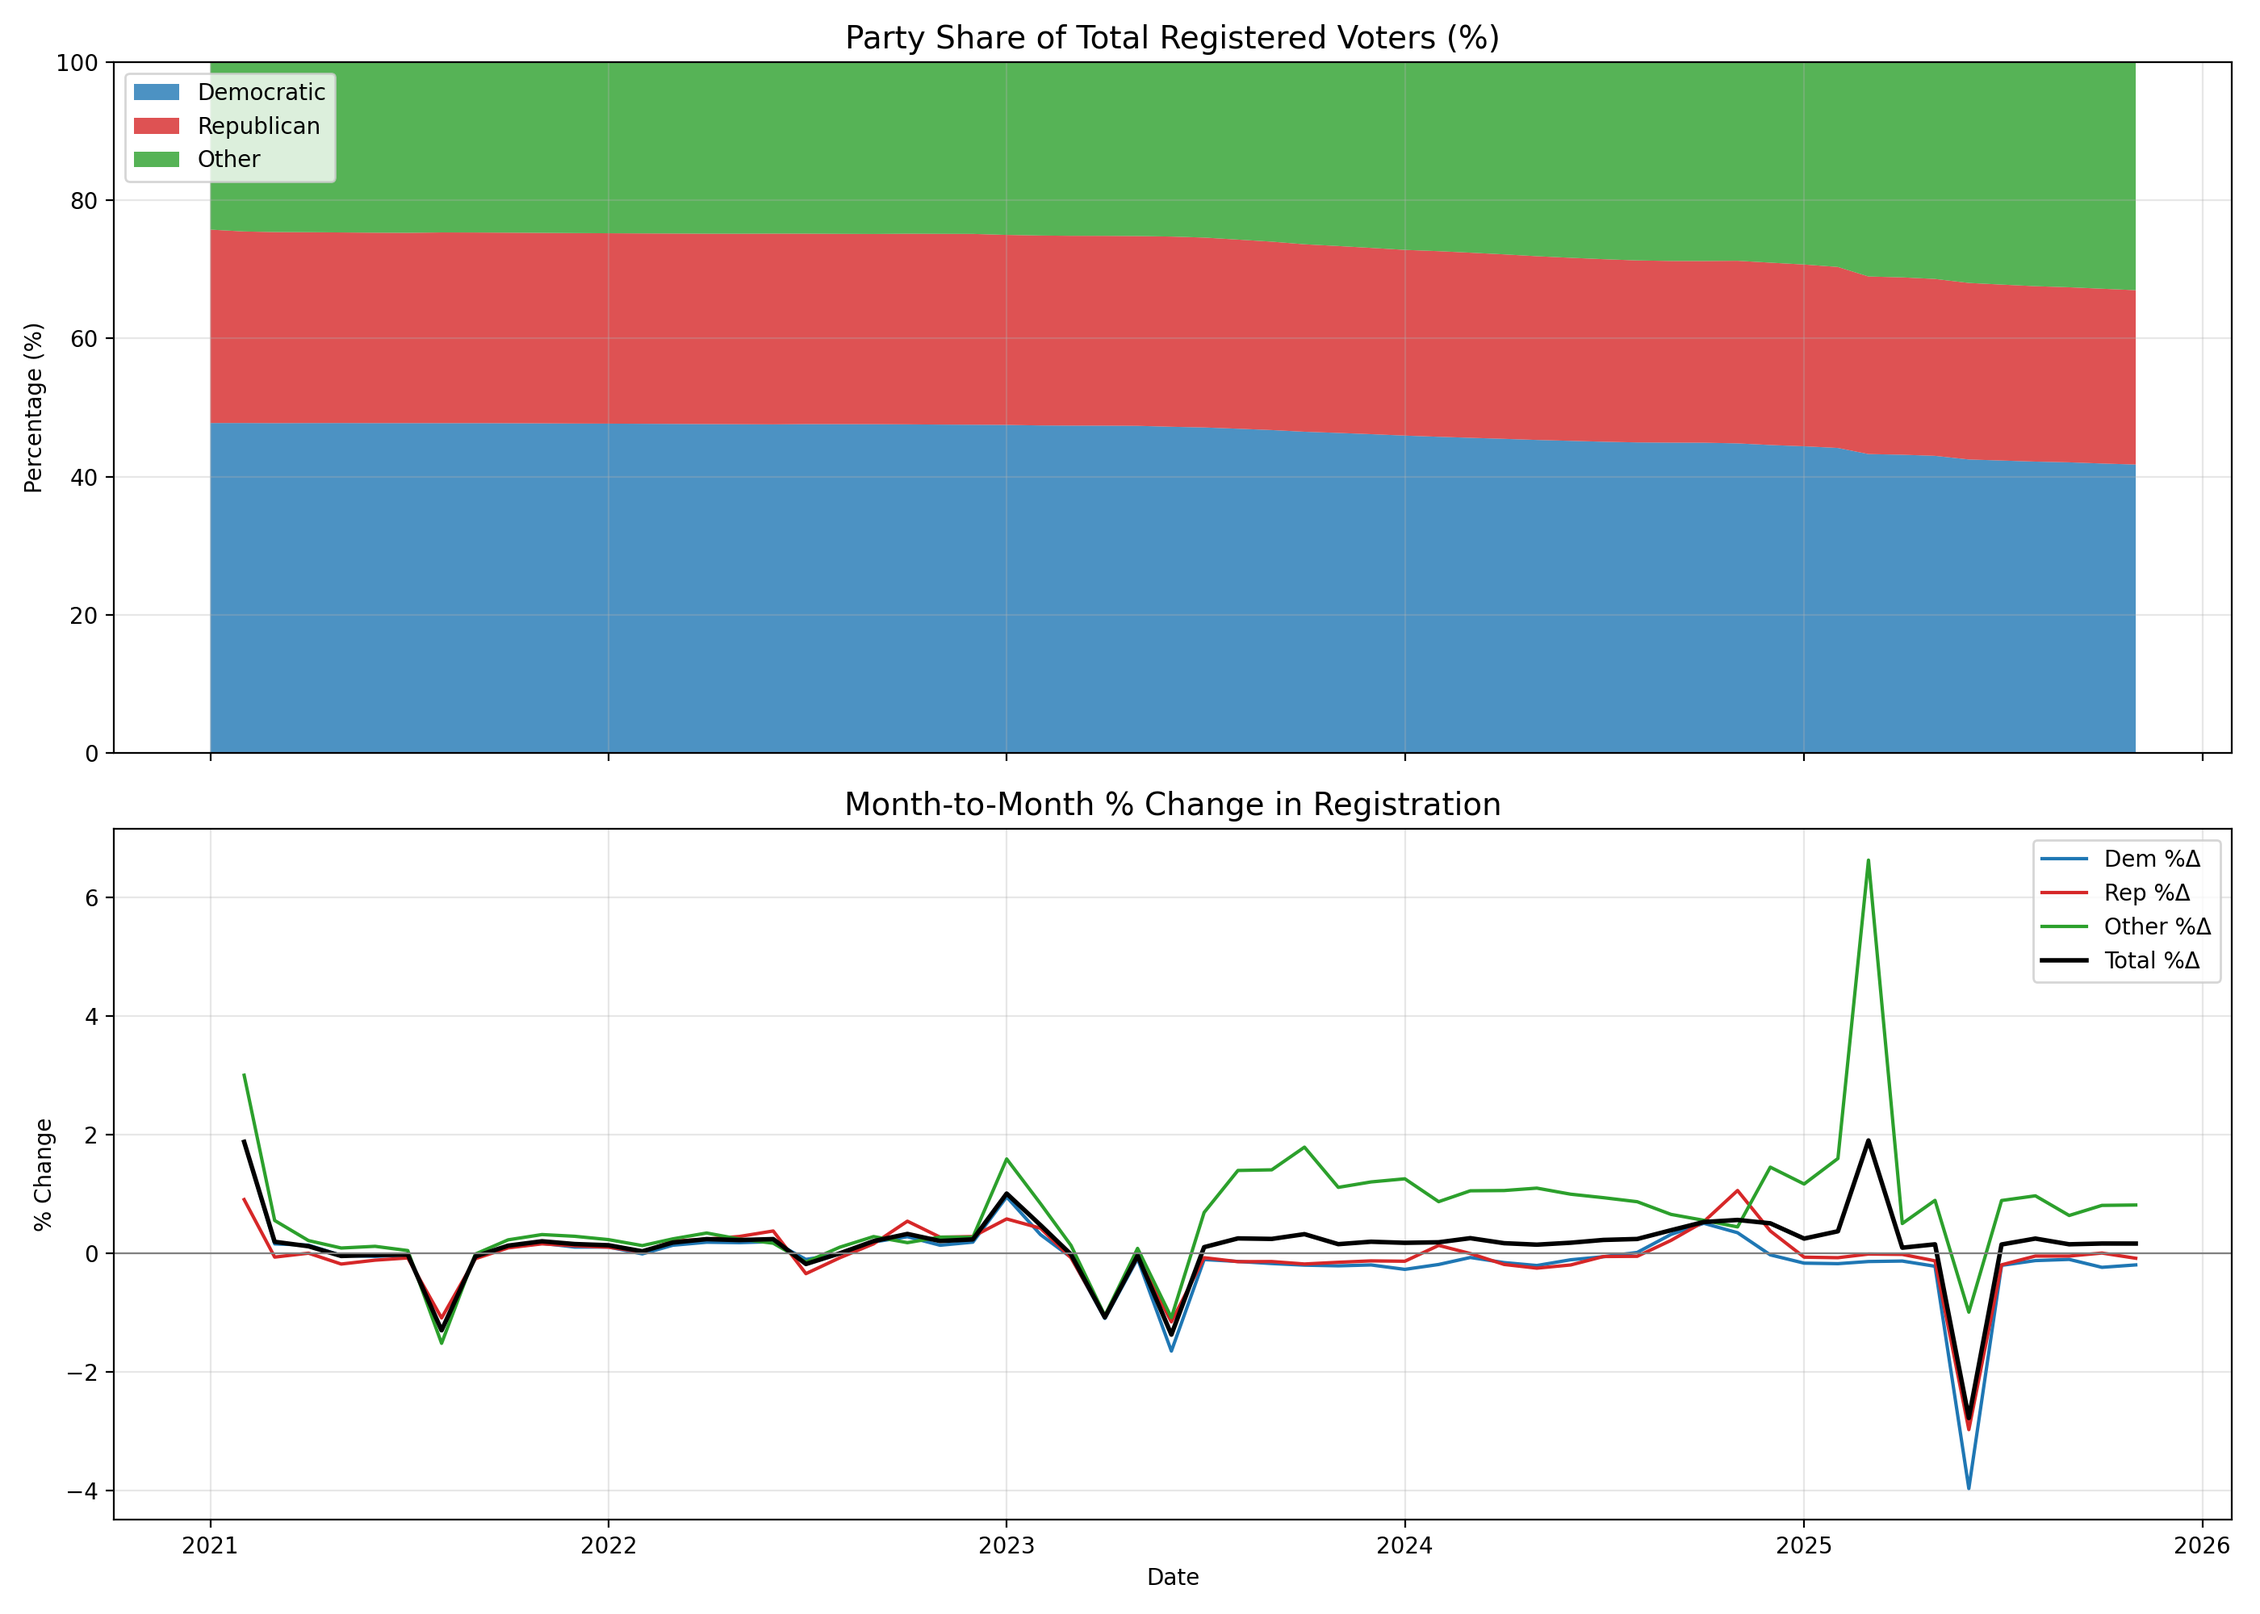
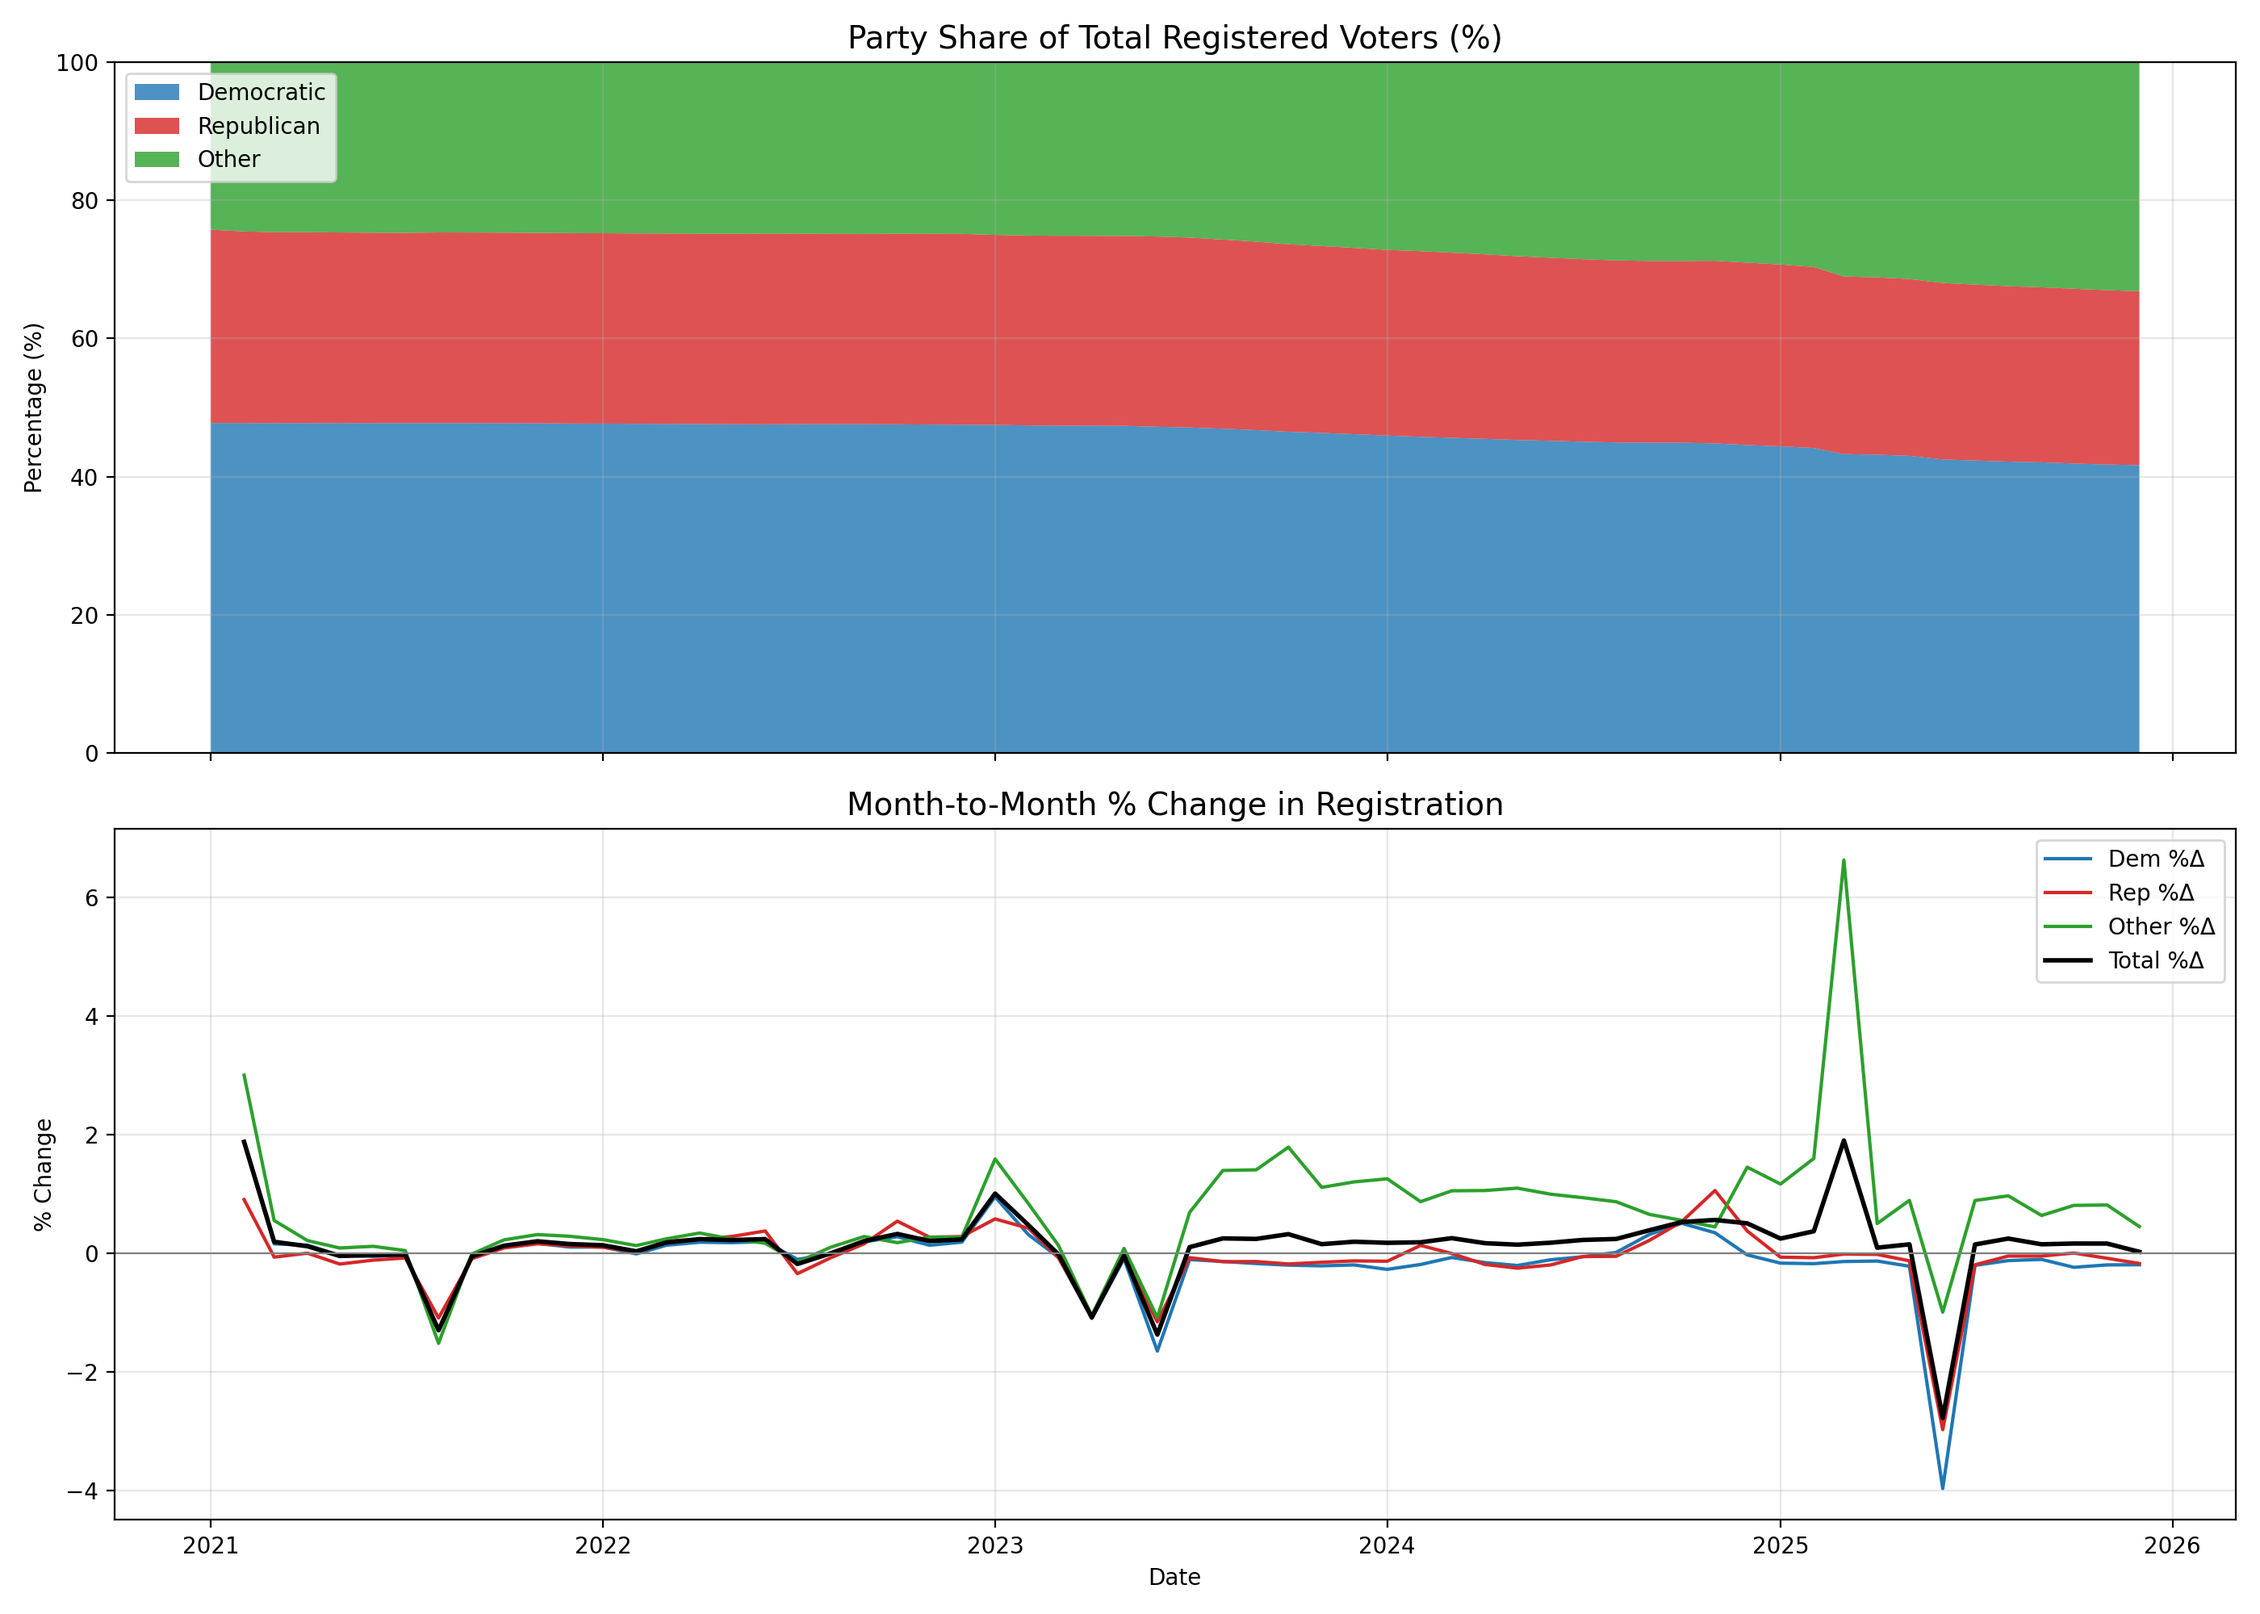
added 12/1 data; had to manually change date range, should fix

diff --git a/vrt.py b/vrt.py
@@ -215,7 +215,7 @@ def main() -> None:
             [(2022, m, 1) for m in range(1, 10)] + [(2022, 10, 2), (2022, 11, 1), (2022, 12, 1)] +
             [(2023, m, 1) for m in range(1, 13)] +
             [(2024, m, 1) for m in range(1, 13)] +
-            [(2025, m, 1) for m in range(1, 12)]
+            [(2025, m, 1) for m in range(1, 13)]
         )
 
         today = datetime.now()
@@ -247,7 +247,8 @@ if __name__ == "__main__":
 
     # Start server in background (non-blocking)
     import subprocess
-    subprocess.Popen(["python3", "-m", "http.server", "8001"])
+    subprocess.Popen(["killall", "Python"])
+    subprocess.Popen(["python3", "-m", "http.server", "8000"])
 
     # Open dashboard
-    webbrowser.open("http://localhost:8000/vrt_dashboard.html")
+    webbrowser.open("http://localhost:8000/index.html")

diff --git a/vrt.md b/vrt.md
@@ -59,3 +59,4 @@
 |2025-09-01 | 335,813 | 202,191 | 260,306 | 798,310|
 |2025-10-01 | 334,999 | 202,188 | 262,394 | 799,581|
 |2025-11-01 | 334,324 | 202,007 | 264,516 | 800,847|
+|2025-12-01 | 333,659 | 201,648 | 265,694 | 801,001|
